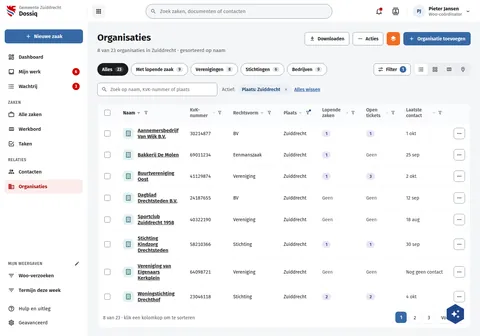
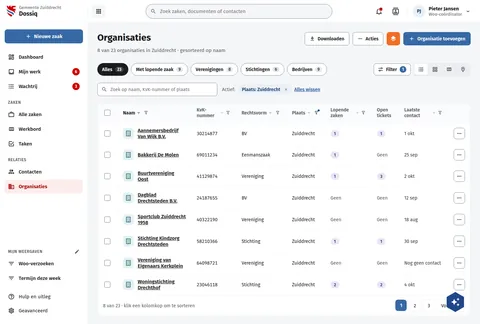
fix(screens): DqContacten's BSN and DqOrganisaties' Open tickets heads are plain labels
Coordinator decisions (24 Oct, zero target):
- DqContacten: the BSN column head drew a sort chevron and a filter
  funnel. The BSN is an explicit-reveal value now (openregister #4843):
  shown masked, and sorting or filtering on it is refused, so live can
  offer neither. Plain label.
- DqOrganisaties: the Open tickets head drew a sort chevron and a filter
  funnel. The count comes from pipelinq per row and cannot be sorted or
  filtered on; live offers neither. Plain label.

DqOrganisaties' height follows the board as built (1007 to 971).

Assisted-by: ClaudeCode:claude-opus-5-5

diff --git a/preview/screens/boards/DqOrganisaties.html b/preview/screens/boards/DqOrganisaties.html
@@ -198,7 +198,7 @@ a{color:var(--sc-primary, #3669a5)}a:hover{color:var(--sc-primary-deep, #234a78)
                   <th scope="col" style="padding: 12px 16px; font-weight: 600"><span style="display: inline-flex; align-items: center; gap: 4px"><button type="button" style="border: 0; background: transparent; padding: 0; font: inherit; color: inherit; display: inline-flex; gap: 4px; align-items: center; text-align: left">Rechtsvorm <svg width="14" height="14" viewbox="0 0 24 24" fill="#828a95" aria-hidden="true" style="fill:var(--sc-work-field, #828a95)"><path d="M7.41,8.58L12,13.17L16.59,8.58L18,10L12,16L6,10L7.41,8.58Z"></path></svg></button><button type="button" aria-haspopup="dialog" aria-label="Filteren op Rechtsvorm" title="Filteren op Rechtsvorm" style="width: 22px; height: 22px; padding: 0; border: 0; border-radius: 4px; background: transparent; color: var(--sc-work-muted, #5e6168); display: inline-flex; align-items: center; justify-content: center"><svg width="14" height="14" viewbox="0 0 24 24" fill="currentColor" aria-hidden="true"><path d="M15,19.88C15.04,20.18 14.94,20.5 14.71,20.71C14.32,21.1 13.69,21.1 13.3,20.71L9.29,16.7C9.06,16.47 8.96,16.16 9,15.87V10.75L4.21,4.62C3.87,4.19 3.95,3.56 4.38,3.22C4.57,3.08 4.78,3 5,3V3H19V3C19.22,3 19.43,3.08 19.62,3.22C20.05,3.56 20.13,4.19 19.79,4.62L15,10.75V19.88M7.04,5L11,10.06V15.58L13,17.58V10.05L16.96,5H7.04Z"></path></svg></button></span></th>
                   <th scope="col" style="padding: 12px 16px; font-weight: 600"><span style="display: inline-flex; align-items: center; gap: 4px"><button type="button" style="border: 0; background: transparent; padding: 0; font: inherit; color: inherit; display: inline-flex; gap: 4px; align-items: center; text-align: left">Plaats <svg width="14" height="14" viewbox="0 0 24 24" fill="#828a95" aria-hidden="true" style="fill:var(--sc-work-field, #828a95)"><path d="M7.41,8.58L12,13.17L16.59,8.58L18,10L12,16L6,10L7.41,8.58Z"></path></svg></button><button type="button" aria-haspopup="dialog" aria-label="Filteren op Plaats (actief)" title="Filteren op Plaats" style="position: relative; width: 22px; height: 22px; padding: 0; border: 0; border-radius: 4px; background: transparent; color: var(--sc-primary-deep, #234a78); display: inline-flex; align-items: center; justify-content: center"><svg width="14" height="14" viewbox="0 0 24 24" fill="currentColor" aria-hidden="true"><path d="M15,19.88C15.04,20.18 14.94,20.5 14.71,20.71C14.32,21.1 13.69,21.1 13.3,20.71L9.29,16.7C9.06,16.47 8.96,16.16 9,15.87V10.75L4.21,4.62C3.87,4.19 3.95,3.56 4.38,3.22C4.57,3.08 4.78,3 5,3V3H19V3C19.22,3 19.43,3.08 19.62,3.22C20.05,3.56 20.13,4.19 19.79,4.62L15,10.75V19.88M7.04,5L11,10.06V15.58L13,17.58V10.05L16.96,5H7.04Z"></path></svg><span aria-hidden="true" style="position: absolute; top: 1px; right: 1px; width: 6px; height: 6px; border-radius: 3px; background: var(--sc-primary-deep, #234a78)"></span></button></span></th>
                   <th scope="col" style="padding: 12px 16px; font-weight: 600"><span style="display: inline-flex; align-items: center; gap: 4px"><button type="button" style="border: 0; background: transparent; padding: 0; font: inherit; color: inherit; display: inline-flex; gap: 4px; align-items: center; text-align: left">Lopende zaken <svg width="14" height="14" viewbox="0 0 24 24" fill="#828a95" aria-hidden="true" style="fill:var(--sc-work-field, #828a95)"><path d="M7.41,8.58L12,13.17L16.59,8.58L18,10L12,16L6,10L7.41,8.58Z"></path></svg></button><button type="button" aria-haspopup="dialog" aria-label="Filteren op Lopende zaken" title="Filteren op Lopende zaken" style="width: 22px; height: 22px; padding: 0; border: 0; border-radius: 4px; background: transparent; color: var(--sc-work-muted, #5e6168); display: inline-flex; align-items: center; justify-content: center"><svg width="14" height="14" viewbox="0 0 24 24" fill="currentColor" aria-hidden="true"><path d="M15,19.88C15.04,20.18 14.94,20.5 14.71,20.71C14.32,21.1 13.69,21.1 13.3,20.71L9.29,16.7C9.06,16.47 8.96,16.16 9,15.87V10.75L4.21,4.62C3.87,4.19 3.95,3.56 4.38,3.22C4.57,3.08 4.78,3 5,3V3H19V3C19.22,3 19.43,3.08 19.62,3.22C20.05,3.56 20.13,4.19 19.79,4.62L15,10.75V19.88M7.04,5L11,10.06V15.58L13,17.58V10.05L16.96,5H7.04Z"></path></svg></button></span></th>
-                  <th scope="col" style="padding: 12px 16px; font-weight: 600"><span style="display: inline-flex; align-items: center; gap: 4px"><button type="button" style="border: 0; background: transparent; padding: 0; font: inherit; color: inherit; display: inline-flex; gap: 4px; align-items: center; text-align: left">Open tickets <svg width="14" height="14" viewbox="0 0 24 24" fill="#828a95" aria-hidden="true" style="fill:var(--sc-work-field, #828a95)"><path d="M7.41,8.58L12,13.17L16.59,8.58L18,10L12,16L6,10L7.41,8.58Z"></path></svg></button><button type="button" aria-haspopup="dialog" aria-label="Filteren op Open tickets" title="Filteren op Open tickets" style="width: 22px; height: 22px; padding: 0; border: 0; border-radius: 4px; background: transparent; color: var(--sc-work-muted, #5e6168); display: inline-flex; align-items: center; justify-content: center"><svg width="14" height="14" viewbox="0 0 24 24" fill="currentColor" aria-hidden="true"><path d="M15,19.88C15.04,20.18 14.94,20.5 14.71,20.71C14.32,21.1 13.69,21.1 13.3,20.71L9.29,16.7C9.06,16.47 8.96,16.16 9,15.87V10.75L4.21,4.62C3.87,4.19 3.95,3.56 4.38,3.22C4.57,3.08 4.78,3 5,3V3H19V3C19.22,3 19.43,3.08 19.62,3.22C20.05,3.56 20.13,4.19 19.79,4.62L15,10.75V19.88M7.04,5L11,10.06V15.58L13,17.58V10.05L16.96,5H7.04Z"></path></svg></button></span></th>
+                  <th scope="col" style="padding: 12px 16px; font-weight: 600">Open tickets</th>
                   <th scope="col" style="padding: 12px 16px; font-weight: 600"><span style="display: inline-flex; align-items: center; gap: 4px"><button type="button" style="border: 0; background: transparent; padding: 0; font: inherit; color: inherit; display: inline-flex; gap: 4px; align-items: center; text-align: left">Laatste contact <svg width="14" height="14" viewbox="0 0 24 24" fill="#828a95" aria-hidden="true" style="fill:var(--sc-work-field, #828a95)"><path d="M7.41,8.58L12,13.17L16.59,8.58L18,10L12,16L6,10L7.41,8.58Z"></path></svg></button><button type="button" aria-haspopup="dialog" aria-label="Filteren op Laatste contact" title="Filteren op Laatste contact" style="width: 22px; height: 22px; padding: 0; border: 0; border-radius: 4px; background: transparent; color: var(--sc-work-muted, #5e6168); display: inline-flex; align-items: center; justify-content: center"><svg width="14" height="14" viewbox="0 0 24 24" fill="currentColor" aria-hidden="true"><path d="M15,19.88C15.04,20.18 14.94,20.5 14.71,20.71C14.32,21.1 13.69,21.1 13.3,20.71L9.29,16.7C9.06,16.47 8.96,16.16 9,15.87V10.75L4.21,4.62C3.87,4.19 3.95,3.56 4.38,3.22C4.57,3.08 4.78,3 5,3V3H19V3C19.22,3 19.43,3.08 19.62,3.22C20.05,3.56 20.13,4.19 19.79,4.62L15,10.75V19.88M7.04,5L11,10.06V15.58L13,17.58V10.05L16.96,5H7.04Z"></path></svg></button></span></th>
                   <th scope="col" style="padding: 12px 16px"><span style="position: absolute; width: 1px; height: 1px; overflow: hidden; clip: rect(0 0 0 0)">Acties</span></th>
                 </tr>

diff --git a/screens-src/zuiddrecht/DqOrganisaties.dc.html b/screens-src/zuiddrecht/DqOrganisaties.dc.html
@@ -66,7 +66,7 @@ a{color:#3669a5}a:hover{color:#234a78}
                   <th scope="col" style="padding: 12px 16px; font-weight: 600"><span style="display: inline-flex; align-items: center; gap: 4px"><button type="button" style="border: 0; background: transparent; padding: 0; font: inherit; color: inherit; display: inline-flex; gap: 4px; align-items: center; text-align: left">Rechtsvorm <svg width="14" height="14" viewBox="0 0 24 24" fill="#828a95" aria-hidden="true"><path d="M7.41,8.58L12,13.17L16.59,8.58L18,10L12,16L6,10L7.41,8.58Z"></path></svg></button><button type="button" aria-haspopup="dialog" aria-label="Filteren op Rechtsvorm" title="Filteren op Rechtsvorm" style="width: 22px; height: 22px; padding: 0; border: 0; border-radius: 4px; background: transparent; color: #5e6168; display: inline-flex; align-items: center; justify-content: center"><svg width="14" height="14" viewBox="0 0 24 24" fill="currentColor" aria-hidden="true"><path d="M15,19.88C15.04,20.18 14.94,20.5 14.71,20.71C14.32,21.1 13.69,21.1 13.3,20.71L9.29,16.7C9.06,16.47 8.96,16.16 9,15.87V10.75L4.21,4.62C3.87,4.19 3.95,3.56 4.38,3.22C4.57,3.08 4.78,3 5,3V3H19V3C19.22,3 19.43,3.08 19.62,3.22C20.05,3.56 20.13,4.19 19.79,4.62L15,10.75V19.88M7.04,5L11,10.06V15.58L13,17.58V10.05L16.96,5H7.04Z"></path></svg></button></span></th>
                   <th scope="col" style="padding: 12px 16px; font-weight: 600"><span style="display: inline-flex; align-items: center; gap: 4px"><button type="button" style="border: 0; background: transparent; padding: 0; font: inherit; color: inherit; display: inline-flex; gap: 4px; align-items: center; text-align: left">Plaats <svg width="14" height="14" viewBox="0 0 24 24" fill="#828a95" aria-hidden="true"><path d="M7.41,8.58L12,13.17L16.59,8.58L18,10L12,16L6,10L7.41,8.58Z"></path></svg></button><button type="button" aria-haspopup="dialog" aria-label="Filteren op Plaats (actief)" title="Filteren op Plaats" style="position: relative; width: 22px; height: 22px; padding: 0; border: 0; border-radius: 4px; background: transparent; color: #234a78; display: inline-flex; align-items: center; justify-content: center"><svg width="14" height="14" viewBox="0 0 24 24" fill="currentColor" aria-hidden="true"><path d="M15,19.88C15.04,20.18 14.94,20.5 14.71,20.71C14.32,21.1 13.69,21.1 13.3,20.71L9.29,16.7C9.06,16.47 8.96,16.16 9,15.87V10.75L4.21,4.62C3.87,4.19 3.95,3.56 4.38,3.22C4.57,3.08 4.78,3 5,3V3H19V3C19.22,3 19.43,3.08 19.62,3.22C20.05,3.56 20.13,4.19 19.79,4.62L15,10.75V19.88M7.04,5L11,10.06V15.58L13,17.58V10.05L16.96,5H7.04Z"></path></svg><span aria-hidden="true" style="position: absolute; top: 1px; right: 1px; width: 6px; height: 6px; border-radius: 3px; background: #234a78"></span></button></span></th>
                   <th scope="col" style="padding: 12px 16px; font-weight: 600"><span style="display: inline-flex; align-items: center; gap: 4px"><button type="button" style="border: 0; background: transparent; padding: 0; font: inherit; color: inherit; display: inline-flex; gap: 4px; align-items: center; text-align: left">Lopende zaken <svg width="14" height="14" viewBox="0 0 24 24" fill="#828a95" aria-hidden="true"><path d="M7.41,8.58L12,13.17L16.59,8.58L18,10L12,16L6,10L7.41,8.58Z"></path></svg></button><button type="button" aria-haspopup="dialog" aria-label="Filteren op Lopende zaken" title="Filteren op Lopende zaken" style="width: 22px; height: 22px; padding: 0; border: 0; border-radius: 4px; background: transparent; color: #5e6168; display: inline-flex; align-items: center; justify-content: center"><svg width="14" height="14" viewBox="0 0 24 24" fill="currentColor" aria-hidden="true"><path d="M15,19.88C15.04,20.18 14.94,20.5 14.71,20.71C14.32,21.1 13.69,21.1 13.3,20.71L9.29,16.7C9.06,16.47 8.96,16.16 9,15.87V10.75L4.21,4.62C3.87,4.19 3.95,3.56 4.38,3.22C4.57,3.08 4.78,3 5,3V3H19V3C19.22,3 19.43,3.08 19.62,3.22C20.05,3.56 20.13,4.19 19.79,4.62L15,10.75V19.88M7.04,5L11,10.06V15.58L13,17.58V10.05L16.96,5H7.04Z"></path></svg></button></span></th>
-                  <th scope="col" style="padding: 12px 16px; font-weight: 600"><span style="display: inline-flex; align-items: center; gap: 4px"><button type="button" style="border: 0; background: transparent; padding: 0; font: inherit; color: inherit; display: inline-flex; gap: 4px; align-items: center; text-align: left">Open tickets <svg width="14" height="14" viewBox="0 0 24 24" fill="#828a95" aria-hidden="true"><path d="M7.41,8.58L12,13.17L16.59,8.58L18,10L12,16L6,10L7.41,8.58Z"></path></svg></button><button type="button" aria-haspopup="dialog" aria-label="Filteren op Open tickets" title="Filteren op Open tickets" style="width: 22px; height: 22px; padding: 0; border: 0; border-radius: 4px; background: transparent; color: #5e6168; display: inline-flex; align-items: center; justify-content: center"><svg width="14" height="14" viewBox="0 0 24 24" fill="currentColor" aria-hidden="true"><path d="M15,19.88C15.04,20.18 14.94,20.5 14.71,20.71C14.32,21.1 13.69,21.1 13.3,20.71L9.29,16.7C9.06,16.47 8.96,16.16 9,15.87V10.75L4.21,4.62C3.87,4.19 3.95,3.56 4.38,3.22C4.57,3.08 4.78,3 5,3V3H19V3C19.22,3 19.43,3.08 19.62,3.22C20.05,3.56 20.13,4.19 19.79,4.62L15,10.75V19.88M7.04,5L11,10.06V15.58L13,17.58V10.05L16.96,5H7.04Z"></path></svg></button></span></th>
+                  <th scope="col" style="padding: 12px 16px; font-weight: 600">Open tickets</th>
                   <th scope="col" style="padding: 12px 16px; font-weight: 600"><span style="display: inline-flex; align-items: center; gap: 4px"><button type="button" style="border: 0; background: transparent; padding: 0; font: inherit; color: inherit; display: inline-flex; gap: 4px; align-items: center; text-align: left">Laatste contact <svg width="14" height="14" viewBox="0 0 24 24" fill="#828a95" aria-hidden="true"><path d="M7.41,8.58L12,13.17L16.59,8.58L18,10L12,16L6,10L7.41,8.58Z"></path></svg></button><button type="button" aria-haspopup="dialog" aria-label="Filteren op Laatste contact" title="Filteren op Laatste contact" style="width: 22px; height: 22px; padding: 0; border: 0; border-radius: 4px; background: transparent; color: #5e6168; display: inline-flex; align-items: center; justify-content: center"><svg width="14" height="14" viewBox="0 0 24 24" fill="currentColor" aria-hidden="true"><path d="M15,19.88C15.04,20.18 14.94,20.5 14.71,20.71C14.32,21.1 13.69,21.1 13.3,20.71L9.29,16.7C9.06,16.47 8.96,16.16 9,15.87V10.75L4.21,4.62C3.87,4.19 3.95,3.56 4.38,3.22C4.57,3.08 4.78,3 5,3V3H19V3C19.22,3 19.43,3.08 19.62,3.22C20.05,3.56 20.13,4.19 19.79,4.62L15,10.75V19.88M7.04,5L11,10.06V15.58L13,17.58V10.05L16.96,5H7.04Z"></path></svg></button></span></th>
                   <th scope="col" style="padding: 12px 16px"><span style="position: absolute; width: 1px; height: 1px; overflow: hidden; clip: rect(0 0 0 0)">Acties</span></th>
                 </tr>

diff --git a/preview/screens/boards/DqContacten.html b/preview/screens/boards/DqContacten.html
@@ -191,7 +191,7 @@ a{color:var(--sc-primary, #3669a5)}a:hover{color:var(--sc-primary-deep, #234a78)
                 <tr style="text-align: left; color: var(--sc-work-muted, #5e6168); background: #fafbfc">
                   <th scope="col" style="padding: 12px 16px; width: 28px"><input type="checkbox" aria-label="Alle contacten selecteren" style="width: 18px; height: 18px; accent-color: var(--sc-primary, #3669a5)"></th>
                   <th scope="col" style="padding: 12px 16px; font-weight: 600"><span style="display: inline-flex; align-items: center; gap: 4px"><button type="button" style="border: 0; background: transparent; padding: 0; font: 600 14px var(--sc-font, 'Fira Sans'), sans-serif; color: var(--sc-work-ink, #1b1c1d); display: flex; gap: 4px; align-items: center">Naam <svg width="14" height="14" viewbox="0 0 24 24" fill="currentColor"><path d="M7.41,15.41L12,10.83L16.59,15.41L18,14L12,8L6,14L7.41,15.41Z"></path></svg></button><button type="button" aria-haspopup="dialog" aria-label="Filteren op Naam" title="Filteren op Naam" style="width: 22px; height: 22px; padding: 0; border: 0; border-radius: 4px; background: transparent; color: var(--sc-work-muted, #5e6168); display: inline-flex; align-items: center; justify-content: center"><svg width="14" height="14" viewbox="0 0 24 24" fill="currentColor" aria-hidden="true"><path d="M15,19.88C15.04,20.18 14.94,20.5 14.71,20.71C14.32,21.1 13.69,21.1 13.3,20.71L9.29,16.7C9.06,16.47 8.96,16.16 9,15.87V10.75L4.21,4.62C3.87,4.19 3.95,3.56 4.38,3.22C4.57,3.08 4.78,3 5,3V3H19V3C19.22,3 19.43,3.08 19.62,3.22C20.05,3.56 20.13,4.19 19.79,4.62L15,10.75V19.88M7.04,5L11,10.06V15.58L13,17.58V10.05L16.96,5H7.04Z"></path></svg></button></span></th>
-                  <th scope="col" style="padding: 12px 16px; font-weight: 600"><span style="display: inline-flex; align-items: center; gap: 4px"><button type="button" style="border: 0; background: transparent; padding: 0; font: inherit; color: inherit; display: inline-flex; gap: 4px; align-items: center; text-align: left">BSN <svg width="14" height="14" viewbox="0 0 24 24" fill="#828a95" aria-hidden="true" style="fill:var(--sc-work-field, #828a95)"><path d="M7.41,8.58L12,13.17L16.59,8.58L18,10L12,16L6,10L7.41,8.58Z"></path></svg></button><button type="button" aria-haspopup="dialog" aria-label="Filteren op BSN" title="Filteren op BSN" style="width: 22px; height: 22px; padding: 0; border: 0; border-radius: 4px; background: transparent; color: var(--sc-work-muted, #5e6168); display: inline-flex; align-items: center; justify-content: center"><svg width="14" height="14" viewbox="0 0 24 24" fill="currentColor" aria-hidden="true"><path d="M15,19.88C15.04,20.18 14.94,20.5 14.71,20.71C14.32,21.1 13.69,21.1 13.3,20.71L9.29,16.7C9.06,16.47 8.96,16.16 9,15.87V10.75L4.21,4.62C3.87,4.19 3.95,3.56 4.38,3.22C4.57,3.08 4.78,3 5,3V3H19V3C19.22,3 19.43,3.08 19.62,3.22C20.05,3.56 20.13,4.19 19.79,4.62L15,10.75V19.88M7.04,5L11,10.06V15.58L13,17.58V10.05L16.96,5H7.04Z"></path></svg></button></span></th>
+                  <th scope="col" style="padding: 12px 16px; font-weight: 600">BSN</th>
                   <th scope="col" style="padding: 12px 16px; font-weight: 600"><span style="display: inline-flex; align-items: center; gap: 4px"><button type="button" style="border: 0; background: transparent; padding: 0; font: inherit; color: inherit; display: inline-flex; gap: 4px; align-items: center; text-align: left">Woonplaats <svg width="14" height="14" viewbox="0 0 24 24" fill="#828a95" aria-hidden="true" style="fill:var(--sc-work-field, #828a95)"><path d="M7.41,8.58L12,13.17L16.59,8.58L18,10L12,16L6,10L7.41,8.58Z"></path></svg></button><button type="button" aria-haspopup="dialog" aria-label="Filteren op Woonplaats (actief)" title="Filteren op Woonplaats" style="position: relative; width: 22px; height: 22px; padding: 0; border: 0; border-radius: 4px; background: transparent; color: var(--sc-primary-deep, #234a78); display: inline-flex; align-items: center; justify-content: center"><svg width="14" height="14" viewbox="0 0 24 24" fill="currentColor" aria-hidden="true"><path d="M15,19.88C15.04,20.18 14.94,20.5 14.71,20.71C14.32,21.1 13.69,21.1 13.3,20.71L9.29,16.7C9.06,16.47 8.96,16.16 9,15.87V10.75L4.21,4.62C3.87,4.19 3.95,3.56 4.38,3.22C4.57,3.08 4.78,3 5,3V3H19V3C19.22,3 19.43,3.08 19.62,3.22C20.05,3.56 20.13,4.19 19.79,4.62L15,10.75V19.88M7.04,5L11,10.06V15.58L13,17.58V10.05L16.96,5H7.04Z"></path></svg><span aria-hidden="true" style="position: absolute; top: 1px; right: 1px; width: 6px; height: 6px; border-radius: 3px; background: var(--sc-primary-deep, #234a78)"></span></button></span></th>
                   <th scope="col" style="padding: 12px 16px; font-weight: 600"><span style="display: inline-flex; align-items: center; gap: 4px"><button type="button" style="border: 0; background: transparent; padding: 0; font: inherit; color: inherit; display: inline-flex; gap: 4px; align-items: center; text-align: left">Omschrijving <svg width="14" height="14" viewbox="0 0 24 24" fill="#828a95" aria-hidden="true" style="fill:var(--sc-work-field, #828a95)"><path d="M7.41,8.58L12,13.17L16.59,8.58L18,10L12,16L6,10L7.41,8.58Z"></path></svg></button><button type="button" aria-haspopup="dialog" aria-label="Filteren op Omschrijving" title="Filteren op Omschrijving" style="width: 22px; height: 22px; padding: 0; border: 0; border-radius: 4px; background: transparent; color: var(--sc-work-muted, #5e6168); display: inline-flex; align-items: center; justify-content: center"><svg width="14" height="14" viewbox="0 0 24 24" fill="currentColor" aria-hidden="true"><path d="M15,19.88C15.04,20.18 14.94,20.5 14.71,20.71C14.32,21.1 13.69,21.1 13.3,20.71L9.29,16.7C9.06,16.47 8.96,16.16 9,15.87V10.75L4.21,4.62C3.87,4.19 3.95,3.56 4.38,3.22C4.57,3.08 4.78,3 5,3V3H19V3C19.22,3 19.43,3.08 19.62,3.22C20.05,3.56 20.13,4.19 19.79,4.62L15,10.75V19.88M7.04,5L11,10.06V15.58L13,17.58V10.05L16.96,5H7.04Z"></path></svg></button></span></th>
                   <th scope="col" style="padding: 12px 16px; width: 44px"><span style="position: absolute; width: 1px; height: 1px; overflow: hidden; clip: rect(0 0 0 0)">Acties</span></th>

diff --git a/screens-src/zuiddrecht/DqContacten.dc.html b/screens-src/zuiddrecht/DqContacten.dc.html
@@ -63,7 +63,7 @@ a{color:#3669a5}a:hover{color:#234a78}
                 <tr style="text-align: left; color: #5e6168; background: #fafbfc">
                   <th scope="col" style="padding: 12px 16px; width: 28px"><input type="checkbox" aria-label="Alle contacten selecteren" style="width: 18px; height: 18px; accent-color: #3669a5"></th>
                   <th scope="col" style="padding: 12px 16px; font-weight: 600"><span style="display: inline-flex; align-items: center; gap: 4px"><button type="button" style="border: 0; background: transparent; padding: 0; font: 600 14px 'Fira Sans', sans-serif; color: #1b1c1d; display: flex; gap: 4px; align-items: center">Naam <svg width="14" height="14" viewBox="0 0 24 24" fill="currentColor"><path d="M7.41,15.41L12,10.83L16.59,15.41L18,14L12,8L6,14L7.41,15.41Z"></path></svg></button><button type="button" aria-haspopup="dialog" aria-label="Filteren op Naam" title="Filteren op Naam" style="width: 22px; height: 22px; padding: 0; border: 0; border-radius: 4px; background: transparent; color: #5e6168; display: inline-flex; align-items: center; justify-content: center"><svg width="14" height="14" viewBox="0 0 24 24" fill="currentColor" aria-hidden="true"><path d="M15,19.88C15.04,20.18 14.94,20.5 14.71,20.71C14.32,21.1 13.69,21.1 13.3,20.71L9.29,16.7C9.06,16.47 8.96,16.16 9,15.87V10.75L4.21,4.62C3.87,4.19 3.95,3.56 4.38,3.22C4.57,3.08 4.78,3 5,3V3H19V3C19.22,3 19.43,3.08 19.62,3.22C20.05,3.56 20.13,4.19 19.79,4.62L15,10.75V19.88M7.04,5L11,10.06V15.58L13,17.58V10.05L16.96,5H7.04Z"></path></svg></button></span></th>
-                  <th scope="col" style="padding: 12px 16px; font-weight: 600"><span style="display: inline-flex; align-items: center; gap: 4px"><button type="button" style="border: 0; background: transparent; padding: 0; font: inherit; color: inherit; display: inline-flex; gap: 4px; align-items: center; text-align: left">BSN <svg width="14" height="14" viewBox="0 0 24 24" fill="#828a95" aria-hidden="true"><path d="M7.41,8.58L12,13.17L16.59,8.58L18,10L12,16L6,10L7.41,8.58Z"></path></svg></button><button type="button" aria-haspopup="dialog" aria-label="Filteren op BSN" title="Filteren op BSN" style="width: 22px; height: 22px; padding: 0; border: 0; border-radius: 4px; background: transparent; color: #5e6168; display: inline-flex; align-items: center; justify-content: center"><svg width="14" height="14" viewBox="0 0 24 24" fill="currentColor" aria-hidden="true"><path d="M15,19.88C15.04,20.18 14.94,20.5 14.71,20.71C14.32,21.1 13.69,21.1 13.3,20.71L9.29,16.7C9.06,16.47 8.96,16.16 9,15.87V10.75L4.21,4.62C3.87,4.19 3.95,3.56 4.38,3.22C4.57,3.08 4.78,3 5,3V3H19V3C19.22,3 19.43,3.08 19.62,3.22C20.05,3.56 20.13,4.19 19.79,4.62L15,10.75V19.88M7.04,5L11,10.06V15.58L13,17.58V10.05L16.96,5H7.04Z"></path></svg></button></span></th>
+                  <th scope="col" style="padding: 12px 16px; font-weight: 600">BSN</th>
                   <th scope="col" style="padding: 12px 16px; font-weight: 600"><span style="display: inline-flex; align-items: center; gap: 4px"><button type="button" style="border: 0; background: transparent; padding: 0; font: inherit; color: inherit; display: inline-flex; gap: 4px; align-items: center; text-align: left">Woonplaats <svg width="14" height="14" viewBox="0 0 24 24" fill="#828a95" aria-hidden="true"><path d="M7.41,8.58L12,13.17L16.59,8.58L18,10L12,16L6,10L7.41,8.58Z"></path></svg></button><button type="button" aria-haspopup="dialog" aria-label="Filteren op Woonplaats (actief)" title="Filteren op Woonplaats" style="position: relative; width: 22px; height: 22px; padding: 0; border: 0; border-radius: 4px; background: transparent; color: #234a78; display: inline-flex; align-items: center; justify-content: center"><svg width="14" height="14" viewBox="0 0 24 24" fill="currentColor" aria-hidden="true"><path d="M15,19.88C15.04,20.18 14.94,20.5 14.71,20.71C14.32,21.1 13.69,21.1 13.3,20.71L9.29,16.7C9.06,16.47 8.96,16.16 9,15.87V10.75L4.21,4.62C3.87,4.19 3.95,3.56 4.38,3.22C4.57,3.08 4.78,3 5,3V3H19V3C19.22,3 19.43,3.08 19.62,3.22C20.05,3.56 20.13,4.19 19.79,4.62L15,10.75V19.88M7.04,5L11,10.06V15.58L13,17.58V10.05L16.96,5H7.04Z"></path></svg><span aria-hidden="true" style="position: absolute; top: 1px; right: 1px; width: 6px; height: 6px; border-radius: 3px; background: #234a78"></span></button></span></th>
                   <th scope="col" style="padding: 12px 16px; font-weight: 600"><span style="display: inline-flex; align-items: center; gap: 4px"><button type="button" style="border: 0; background: transparent; padding: 0; font: inherit; color: inherit; display: inline-flex; gap: 4px; align-items: center; text-align: left">Omschrijving <svg width="14" height="14" viewBox="0 0 24 24" fill="#828a95" aria-hidden="true"><path d="M7.41,8.58L12,13.17L16.59,8.58L18,10L12,16L6,10L7.41,8.58Z"></path></svg></button><button type="button" aria-haspopup="dialog" aria-label="Filteren op Omschrijving" title="Filteren op Omschrijving" style="width: 22px; height: 22px; padding: 0; border: 0; border-radius: 4px; background: transparent; color: #5e6168; display: inline-flex; align-items: center; justify-content: center"><svg width="14" height="14" viewBox="0 0 24 24" fill="currentColor" aria-hidden="true"><path d="M15,19.88C15.04,20.18 14.94,20.5 14.71,20.71C14.32,21.1 13.69,21.1 13.3,20.71L9.29,16.7C9.06,16.47 8.96,16.16 9,15.87V10.75L4.21,4.62C3.87,4.19 3.95,3.56 4.38,3.22C4.57,3.08 4.78,3 5,3V3H19V3C19.22,3 19.43,3.08 19.62,3.22C20.05,3.56 20.13,4.19 19.79,4.62L15,10.75V19.88M7.04,5L11,10.06V15.58L13,17.58V10.05L16.96,5H7.04Z"></path></svg></button></span></th>
                   <th scope="col" style="padding: 12px 16px; width: 44px"><span style="position: absolute; width: 1px; height: 1px; overflow: hidden; clip: rect(0 0 0 0)">Acties</span></th>
